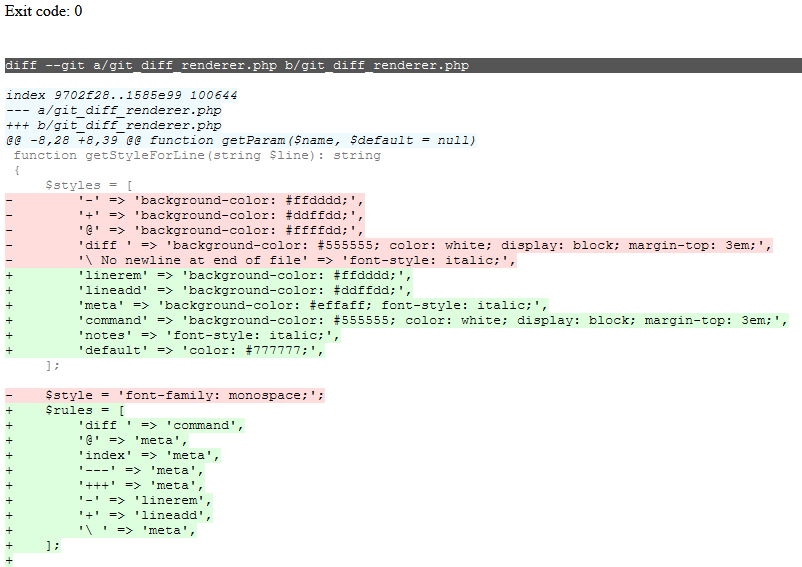
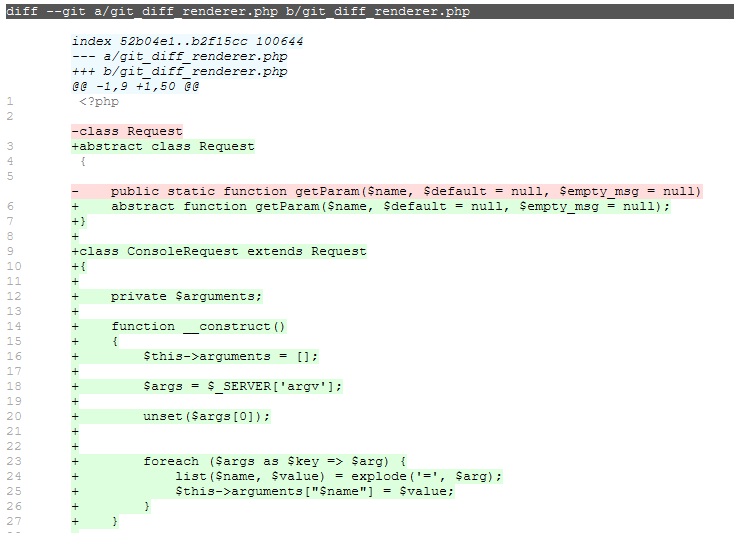
console interface, new screenshot

diff --git a/git_diff_renderer.php b/git_diff_renderer.php
@@ -1,9 +1,50 @@
 <?php
 
-class Request
+abstract class Request
 {
 
-    public static function getParam($name, $default = null, $empty_msg = null)
+    abstract function getParam($name, $default = null, $empty_msg = null);
+}
+
+class ConsoleRequest extends Request
+{
+
+    private $arguments;
+
+    function __construct()
+    {
+        $this->arguments = [];
+
+        $args = $_SERVER['argv'];
+
+        unset($args[0]);
+
+
+        foreach ($args as $key => $arg) {
+            list($name, $value) = explode('=', $arg);
+            $this->arguments["$name"] = $value;
+        }
+    }
+
+    public function getParam($name, $default = null, $empty_msg = null)
+    {
+        if (isset($this->arguments[$name])) {
+            return $this->arguments[$name];
+        }
+
+        if (is_null($empty_msg)) {
+            return $default;
+        } else {
+            die($empty_msg);
+        }
+    }
+
+}
+
+class BrowserRequest extends Request
+{
+
+    public function getParam($name, $default = null, $empty_msg = null)
     {
         if (isset($_REQUEST[$name])) {
             return $_REQUEST[$name];
@@ -14,6 +55,27 @@ class Request
         } else {
             die($empty_msg);
         }
+    }
+
+}
+
+class Environment
+{
+
+    private $request;
+
+    function __construct()
+    {
+        if (defined('STDIN')) {
+            $this->request = new \ConsoleRequest();
+        } else {
+            $this->request = new \BrowserRequest();
+        }
+    }
+
+    function getRequest()
+    {
+        return $this->request;
     }
 
 }
@@ -129,18 +191,21 @@ class GitDiffCommand
 
 }
 
-class Application
+class GitDiffRenderer
 {
 
-    static function execute(): array
+    private const PATH_NOT_SET_MSG = 'Path not set. Try with <a href="?path=my/local/path/to/git/repo">?path=my/local/path/to/git/repo</a>';
+
+    static function execute(\Request $request): array
     {
-        $path = \Request::getParam('path', null, 'Path not set. Try with <a href="?path=my/local/path/to/git/repo">?path=my/local/path/to/git/repo</a>');
+        $path = $request->getParam('path', null, self::PATH_NOT_SET_MSG);
         return GitDiffCommand::run($path);
     }
 
 }
 
-$diff_result = Application::execute();
+$environment = new \Environment();
+$diff_result = GitDiffRenderer::execute($environment->getRequest());
 ?>
 
 <!doctype html>

diff --git a/README.md b/README.md
@@ -5,18 +5,19 @@ Use this script to `git diff` your repositories in HTML. Then you can copy the t
 
 ## Why
 
-I had to audit some projects at work, checking the diff between the deployed versions and the codebase in GIT. After that, had to write a report for every project. 
+I had to audit some projects, checking the diff between the deployed versions and the codebase in GIT. After that, had to write a report for every project. 
 
-Have you ever tried to keep the git diff's format? Of course you can use tools like Github compare, diffy.org, gitKraken or whatever, but you end up taking snapshots of the code (not cool).
+Have you ever tried to keep the git diff's format? Of course you can use tools like Github compare, diffy.org, GitKraken or whatever, but you end up taking snapshots of the code (not cool).
 
 If we're auditing text, then we want to keep the text, right? This script that takes advantage of the inherent power of the native git diff command and, of course, HTML.
 
 
 ## Usage
 
-- Clone the script in your public html folder.
-- Access to `http://[your_localhost_domain_or_ip]/git_diff_renderer.php?path=path/to/your/git/repo/folder` from your browser.
-- That's all. Enjoy.
+1. Clone the script in your public html folder.
+2. Run it:
+  a. From your browser: Access to `http://localhost/git_diff_renderer/git_diff_renderer.php?path=path/to/your/git/repo/folder`. Replace `localhost` by a valid host.
+  b. From command line: `php -f git_diff_renderer.php path=path/to/your/git/repo/folder > output.html`
 
 ![screenshot](screenshot.png)
 
